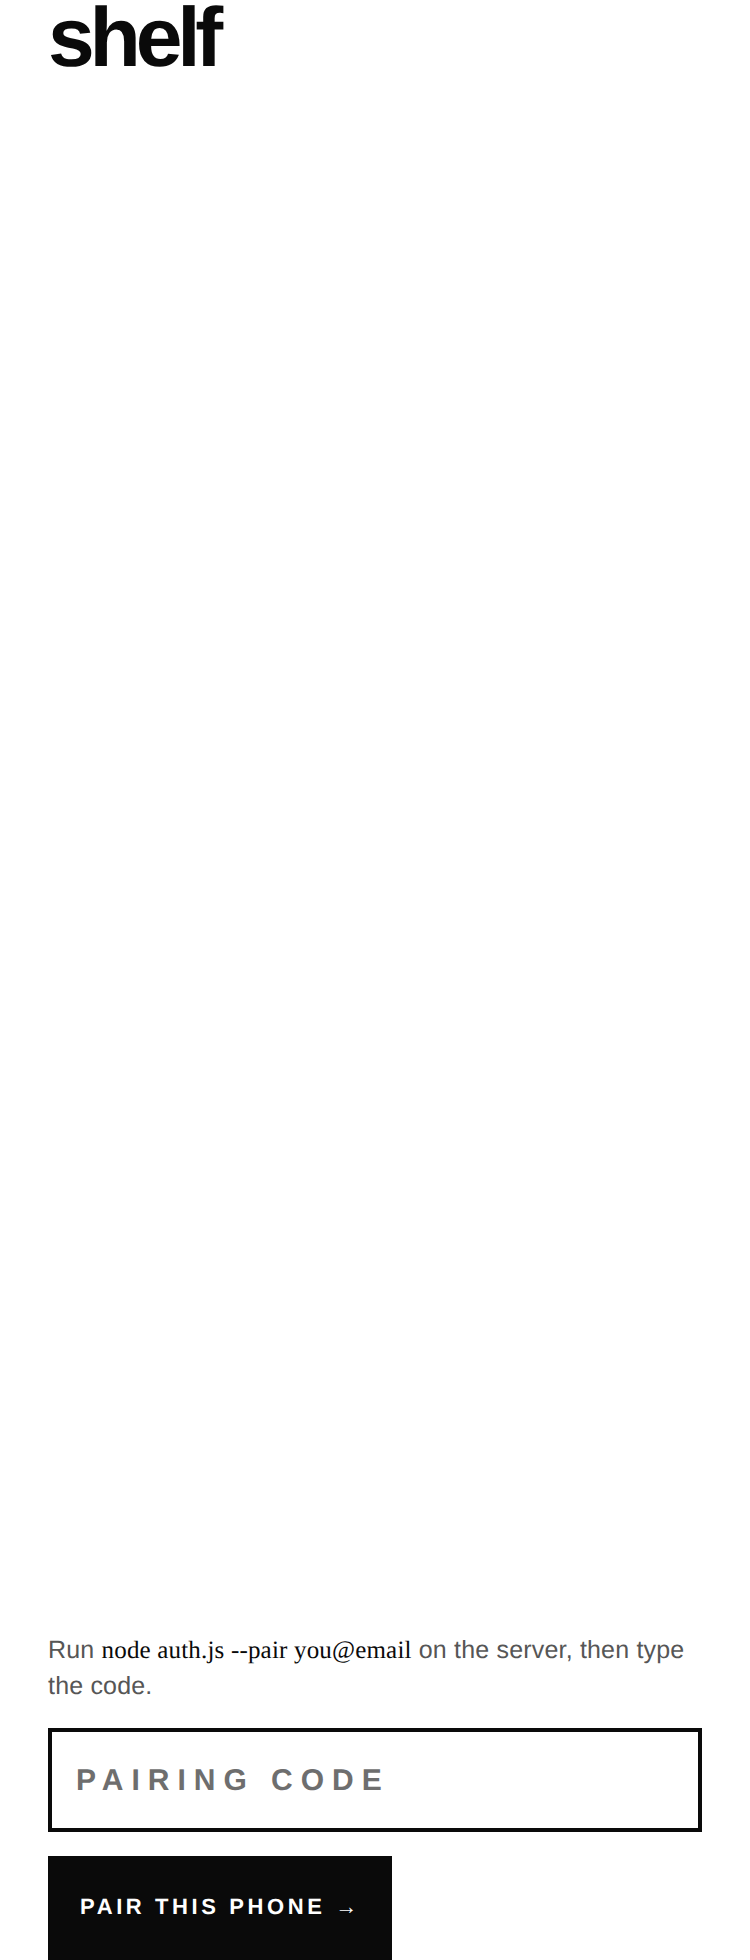
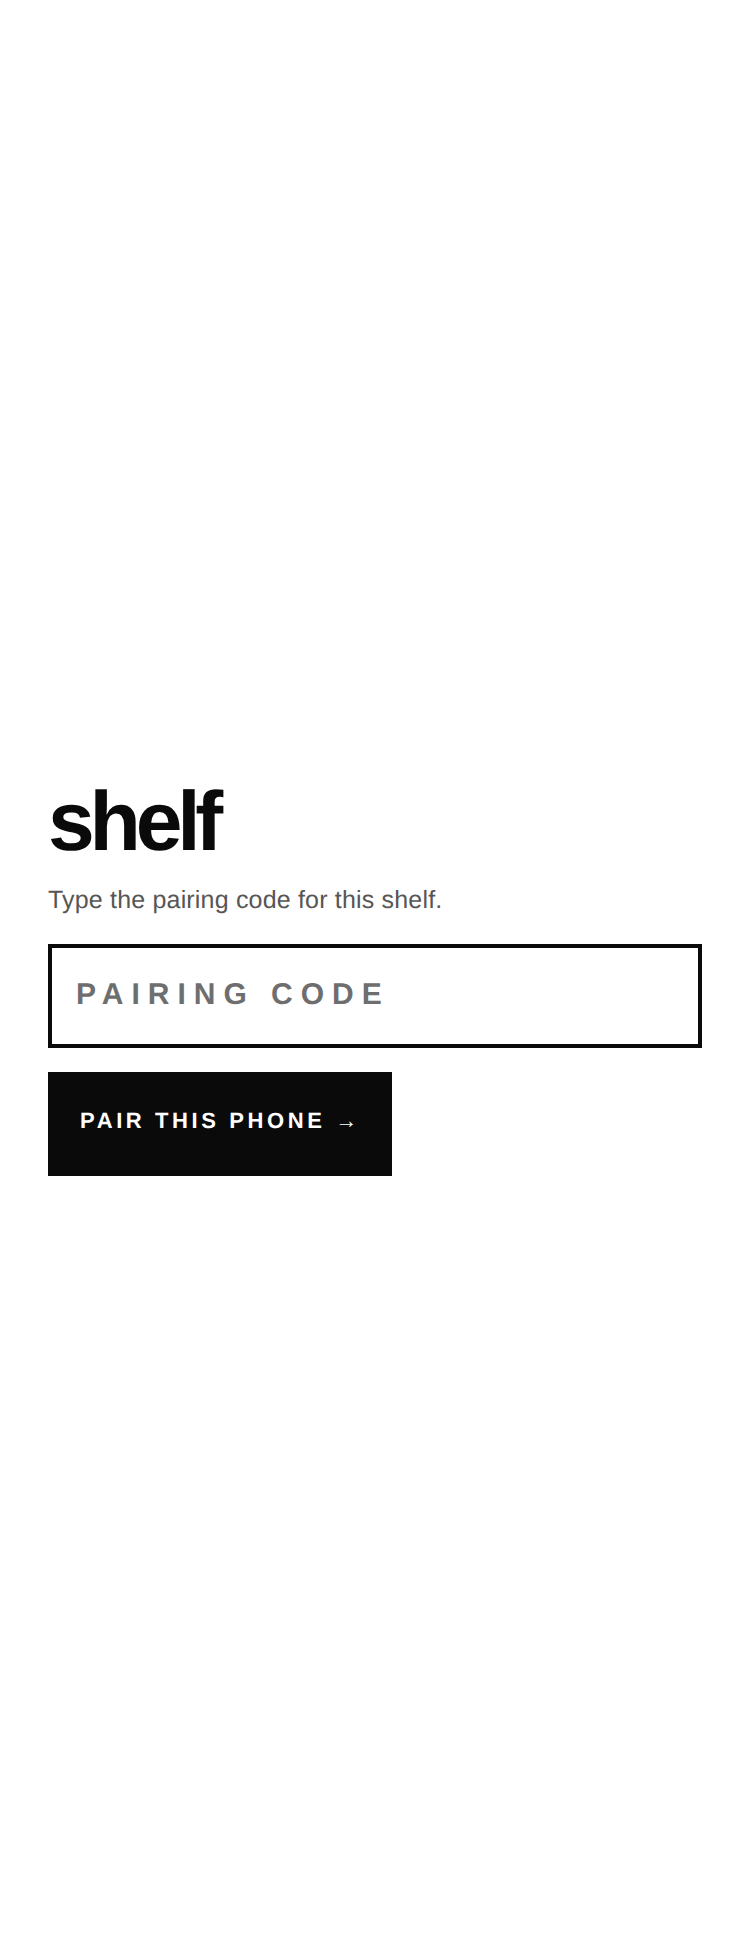
Nothing you type into may sit under the keyboard — and claim the shelf without a code
TWO THINGS, both about the one screen you cannot get past.

THE KEYBOARD. The pairing field shipped underneath it. Not cosmetic: it is the
first screen on first launch, so the app was unusable, and it is invisible to
every check in this project — react-native-web has no keyboard, so no
screenshot and no rule could ever have shown it. KeyboardSafe wraps the screens
that are not scroll views; scrollKeyboardProps insets the ones that are. Now a
gate rule (21 total) fails any file with a TextInput and no keyboard avoidance,
with a probe proving it fires.

THE CODE. A pairing code exists so a public URL is not a public shelf. But on a
brand-new deployment there is nobody to protect it from — the database has no
devices at all — and requiring one there means the first thing the app asks of
you is to go and run a curl. POST /api/pair/claim lets the FIRST device pair
with no code, and the window shuts permanently the instant it is used: every
call re-counts devices, so the second device gets the same 403 a stranger
would. /api/health reports `unclaimed` so the state is visible rather than
quiet. Verified: health says unclaimed, first claim succeeds, health flips,
second claim is refused, and a minted code still works for a real second device.

And a third thing the render harness caught while fixing the first: the pairing
screen reused `s.wordmark`, which carries flex:1 so it can push the count to
the right of the header ROW. In a column it ate 701 of 812 points and pinned
[…]

diff --git a/app/App.tsx b/app/App.tsx
@@ -26,7 +26,7 @@ import {
   ActivityIndicator, Image, Linking, ScrollView, StyleSheet, Text, TextInput, View,
 } from "react-native";
 import {
-  fetchInbox, fetchList, flushQueue, getProfile, listReceived, pair, updateItem,
+  claim, fetchInbox, fetchList, flushQueue, getProfile, listReceived, pair, serverState, updateItem,
   type Item, type ListName, type ShareKind, LISTS,
 } from "./src/api";
 import { Add } from "./src/Add";
@@ -37,6 +37,7 @@ import { ShareSheet } from "./src/ShareSheet";
 import { getToken, setToken, verifySharedAccess } from "./src/tokenStore";
 import { Press } from "./src/Press";
 import { Reveal } from "./src/Reveal";
+import { KeyboardSafe, scrollKeyboardProps } from "./src/KeyboardSafe";
 import {
   BOARD, COVER_KEYLINE, coverFor, placeholderOn, jacketType, lists, listOn, mainTitle, gridFor, rowsOf, emptyBoards, emptyPitch, EMPTY_BOARD_H, rowPitch,
   RULE, sp, t, TOUCH_MIN, useTheme, type Palette,
@@ -515,7 +516,7 @@ function Detail({ item, onClose, onAct, onShare, dark, s, c }: {
   const ghost = placeholderOn(list, dark ? D.dark : D.light);
   return (
     <View style={[s.detail, { backgroundColor: fill }]}>
-      <ScrollView contentContainerStyle={s.detailScroll} showsVerticalScrollIndicator={false}>
+      <ScrollView contentContainerStyle={s.detailScroll} showsVerticalScrollIndicator={false} {...scrollKeyboardProps}>
         <View>
           <View style={s.detailHead}>
             <Text style={[s.detailKicker, { color: on }]}>{lists[list].n} · {lists[list].label}</Text>
@@ -636,12 +637,24 @@ function Pairing({ onPaired }: { onPaired: () => void }) {
   const [code, setCode] = useState("");
   const [error, setError] = useState<string | null>(null);
   const [busy, setBusy] = useState(false);
+  // undefined = we have not asked the server yet. A spinner is the honest
+  // rendering of that; showing the code field first and swapping it out under
+  // somebody's fingers is not.
+  const [unclaimed, setUnclaimed] = useState<boolean | undefined>(undefined);
 
-  async function submit() {
+  useEffect(() => {
+    let live = true;
+    serverState()
+      .then((r) => live && setUnclaimed(!!r.unclaimed))
+      .catch(() => live && setUnclaimed(false));   // can't ask → assume claimed
+    return () => { live = false; };
+  }, []);
+
+  async function finish(get: () => Promise<string>) {
     setBusy(true);
     setError(null);
     try {
-      setToken(await pair(code.trim().toUpperCase(), "iPhone"));
+      setToken(await get());
       // Confirm the extension can actually read what we just wrote. Finding
       // this out here is the difference between a one-line fix and a week of
       // "why does sharing do nothing".
@@ -651,30 +664,65 @@ function Pairing({ onPaired }: { onPaired: () => void }) {
       onPaired();
     } catch (e) {
       setError((e as Error).message);
+      setUnclaimed(false);   // a failed claim usually means somebody got there first
     } finally {
       setBusy(false);
     }
   }
 
   return (
-    <View style={[s.screen, s.pairWrap]}>
-      <Text style={s.wordmark}>shelf</Text>
-      <Text style={s.pairHint}>Run <Text style={s.mono}>node auth.js --pair you@email</Text> on the server, then type the code.</Text>
-      <TextInput
-        value={code}
-        onChangeText={setCode}
-        autoCapitalize="characters"
-        autoCorrect={false}
-        placeholder="PAIRING CODE"
-        placeholderTextColor={c.inkFaint}
-        style={s.input}
-        onSubmitEditing={submit}
-      />
-      <Press onPress={submit} disabled={busy || code.length < 4} style={s.pairBtn} size={TOUCH_MIN} label="Pair this phone">
-        {busy ? <ActivityIndicator color={c.onList} /> : <Text style={s.pairBtnLabel}>Pair this phone →</Text>}
-      </Press>
-      {error ? <Text style={s.errorNote}>{error}</Text> : null}
-    </View>
+    // The field you type the code into is the whole screen. It shipped under
+    // the keyboard once; that is the entire reason KeyboardSafe exists.
+    // ONE flex container, not two. Nesting a flex:1 View inside KeyboardSafe's
+    // own flex:1 broke the centring and dropped everything to the bottom of
+    // the screen — the render harness caught it immediately.
+    <KeyboardSafe style={[s.screen, s.pairWrap] as never}>
+        {/* NOT s.wordmark: that carries flex:1 so it pushes the count to the
+            right of the header ROW. In a column it ate 701 of 812 points and
+            pinned everything else to the bottom of the screen. A style is only
+            reusable in the axis it was written for. */}
+        <Text style={s.pairMark}>shelf</Text>
+
+        {unclaimed === undefined ? (
+          <ActivityIndicator color={c.inkFaint} />
+        ) : unclaimed ? (
+          <>
+            {/* Nobody has ever paired with this server, so there is nobody to
+                protect it from yet. One tap, no code, and the window shuts
+                permanently the moment it is used. */}
+            <Text style={s.pairHint}>
+              This shelf is new and nobody has claimed it. Take it — after this, any
+              other device needs a code from you.
+            </Text>
+            <Press onPress={() => finish(() => claim("iPhone"))} disabled={busy} style={s.pairBtn} size={TOUCH_MIN} label="Claim this shelf">
+              {busy ? <ActivityIndicator color={c.bg} /> : <Text style={s.pairBtnLabel}>This is my shelf →</Text>}
+            </Press>
+          </>
+        ) : (
+          <>
+            <Text style={s.pairHint}>Type the pairing code for this shelf.</Text>
+            <TextInput
+              value={code}
+              onChangeText={setCode}
+              autoCapitalize="characters"
+              autoCorrect={false}
+              placeholder="PAIRING CODE"
+              placeholderTextColor={c.inkFaint}
+              style={s.input}
+              onSubmitEditing={() => finish(() => pair(code.trim().toUpperCase(), "iPhone"))}
+            />
+            <Press
+              onPress={() => finish(() => pair(code.trim().toUpperCase(), "iPhone"))}
+              disabled={busy || code.length < 4}
+              style={s.pairBtn} size={TOUCH_MIN} label="Pair this phone"
+            >
+              {busy ? <ActivityIndicator color={c.bg} /> : <Text style={s.pairBtnLabel}>Pair this phone →</Text>}
+            </Press>
+          </>
+        )}
+
+        {error ? <Text style={s.errorNote}>{error}</Text> : null}
+    </KeyboardSafe>
   );
 }
 
@@ -789,6 +837,7 @@ const styles = (c: Palette) => StyleSheet.create({
   busy: { marginTop: sp.lg },
 
   pairWrap: { justifyContent: "center", paddingHorizontal: sp.xl, gap: sp.md },
+  pairMark: { ...t.wordmark, color: c.ink },
   pairHint: { ...t.meta, color: c.inkSoft },
   mono: { ...t.code, color: c.ink },
   input: {

diff --git a/api/serve.js b/api/serve.js
@@ -119,6 +119,15 @@ async function handle(req, res, url) {
       // 404s. An empty string means neither is set.
       web_base: WEB_BASE,
     };
+    if (dbReady()) {
+      try {
+        const d = await query("select count(*)::int as n from devices");
+        // Visible, not quiet: an unclaimed shelf can be claimed by the first
+        // person to open the app, and you should be able to see that it still
+        // can be.
+        out.unclaimed = d.rows[0].n === 0;
+      } catch (_) { /* the queue block below reports db trouble */ }
+    }
     out.providers = {
       claude: !!process.env.ANTHROPIC_API_KEY,
       tmdb: !!process.env.TMDB_API_KEY,
@@ -167,6 +176,38 @@ async function handle(req, res, url) {
     }
     const { code } = await mintPairCode(email);
     return json(res, 200, { ok: true, code, expires_in_minutes: 30, note: "single use" });
+  }
+
+  // FIRST RUN CLAIMS THE APP.
+  //
+  // A pairing code exists so that a public URL is not a public shelf. But on a
+  // brand-new deployment there is nobody to protect it from yet — the database
+  // has no devices at all — and requiring a code there means the first thing
+  // the app ever asks you to do is go and run a curl. So: while no device has
+  // ever paired, one may pair with no code.
+  //
+  // The window closes permanently the instant it is used. `devices` is checked
+  // on every call, so the second device gets the same 403 a stranger would,
+  // and reopening it takes deliberate action against the database. The whole
+  // exposure is the minutes between deploying and opening the app, and only
+  // for somebody who already knows the URL.
+  //
+  // /api/health reports `unclaimed` so this is a visible state, not a quiet one.
+  if (key === "POST /api/pair/claim") {
+    if (!dbReady()) return json(res, 503, { ok: false, error: "no database" });
+    const taken = await query("select count(*)::int as n from devices");
+    if (taken.rows[0].n > 0) {
+      return json(res, 403, {
+        ok: false,
+        error: "this shelf has already been claimed — ask its owner for a pairing code",
+      });
+    }
+    const body = await readBody(req);
+    const email = String(body?.email || "").trim() || "owner@shelf.local";
+    const { code } = await mintPairCode(email);
+    const got = await redeemPairCode(code, body?.device || "iPhone");
+    console.log(`[shelf] first device claimed this shelf as ${email}`);
+    return json(res, 200, { ok: true, token: got.token, claimed_as: email });
   }
 
   if (key === "POST /api/pair/redeem") {

diff --git a/app/src/KeyboardSafe.tsx b/app/src/KeyboardSafe.tsx
@@ -1,0 +1,46 @@
+// KeyboardSafe.tsx — nothing you type into may sit under the keyboard.
+//
+// This exists because the PAIRING SCREEN shipped with the code field hidden
+// behind the keyboard. Not a cosmetic problem: it is the one screen you cannot
+// get past, on first launch, so the app was unusable and the failure was
+// invisible in every screenshot — react-native-web has no keyboard, so the
+// render harness could never have caught it.
+//
+// Two mechanisms, because the layouts differ:
+//
+//   <KeyboardSafe>      wraps a screen that is NOT a scroll view (the pairing
+//                       screen, the share panel). Shrinks the frame so the
+//                       content is laid out in what is left.
+//
+//   scrollKeyboardProps spread onto a ScrollView that contains inputs. iOS
+//                       insets the scroll content by the keyboard itself,
+//                       which is better than shrinking: the view keeps its
+//                       size and just scrolls further.
+//
+// `keyboardShouldPersistTaps: "handled"` is in there because without it the
+// first tap after typing is swallowed dismissing the keyboard — so a person
+// taps Save, nothing happens, and they tap it again.
+import React from "react";
+import { KeyboardAvoidingView, Platform, type ViewStyle } from "react-native";
+
+export function KeyboardSafe({ children, style }: { children: React.ReactNode; style?: ViewStyle }) {
+  return (
+    <KeyboardAvoidingView
+      style={[{ flex: 1 }, style]}
+      // `padding` is the correct behaviour on iOS; Android resizes the window
+      // itself and `height` double-counts unless you say so.
+      behavior={Platform.OS === "ios" ? "padding" : "height"}
+      keyboardVerticalOffset={0}
+    >
+      {children}
+    </KeyboardAvoidingView>
+  );
+}
+
+/** Spread onto any ScrollView that contains a TextInput. */
+export const scrollKeyboardProps = {
+  keyboardShouldPersistTaps: "handled" as const,
+  // iOS only, and a no-op elsewhere: insets the content by the keyboard's
+  // height rather than resizing the view.
+  automaticallyAdjustKeyboardInsets: true,
+};

diff --git a/app/src/Add.tsx b/app/src/Add.tsx
@@ -14,6 +14,7 @@ import { ActivityIndicator, Image, ScrollView, StyleSheet, Text, TextInput, View
 import { addItem, search, type Item, type ListName, type SearchHit } from "./api";
 import { Press } from "./Press";
 import { Reveal } from "./Reveal";
+import { KeyboardSafe, scrollKeyboardProps } from "./KeyboardSafe";
 import { lists, listOn, RULE, sp, t, TOUCH_MIN, useTheme, type Palette } from "./theme";
 
 // Long enough that a normal typing burst is one request, short enough that it
@@ -80,7 +81,7 @@ export function Add({ onClose, onAdded }: { onClose: () => void; onAdded: (item:
   }
 
   return (
-    <View style={s.screen}>
+    <KeyboardSafe style={s.screen}>
       <View style={[s.head, s.inset]}>
         <Text style={s.wordmark}>Add</Text>
         <Press onPress={onClose} style={s.close} size={TOUCH_MIN} label="Close">
@@ -106,7 +107,7 @@ export function Add({ onClose, onAdded }: { onClose: () => void; onAdded: (item:
         {busy ? <ActivityIndicator color={c.inkFaint} style={s.busy} /> : null}
       </View>
 
-      <ScrollView contentContainerStyle={s.scroll} keyboardShouldPersistTaps="handled" showsVerticalScrollIndicator={false}>
+      <ScrollView contentContainerStyle={s.scroll} showsVerticalScrollIndicator={false} {...scrollKeyboardProps}>
         {error ? <Text style={[s.error, s.inset]}>{error}</Text> : null}
 
         {hits.map((hit, i) => (
@@ -149,7 +150,7 @@ export function Add({ onClose, onAdded }: { onClose: () => void; onAdded: (item:
           </View>
         ) : null}
       </ScrollView>
-    </View>
+    </KeyboardSafe>
   );
 }
 

diff --git a/app/src/ShareSheet.tsx b/app/src/ShareSheet.tsx
@@ -14,6 +14,7 @@ import { ActivityIndicator, Share, StyleSheet, Text, TextInput, View } from "rea
 import { getProfile, makeShare, revokeShare, sendTo, shareUrl, type ShareKind } from "./api";
 import { ExLibris } from "./ExLibris";
 import { Press } from "./Press";
+import { KeyboardSafe } from "./KeyboardSafe";
 import * as D from "./design.js";
 import { labelOf, listOn, placeholderOn, RULE, sp, t, TOUCH_MIN, useTheme, type Palette } from "./theme";
 
@@ -95,7 +96,7 @@ export function ShareSheet({ kind, target, list, title, onClose }: {
   }
 
   return (
-    <View style={[s.panel, { backgroundColor: fill }]}>
+    <KeyboardSafe style={[s.panel, { backgroundColor: fill }] as never}>
       <View style={s.head}>
         <Text style={[s.kicker, { color: on }]}>
           {kind === "profile" ? "Share your shelves" : kind === "shelf" ? `Share the ${labelOf(list)} shelf` : "Share this"}
@@ -170,7 +171,7 @@ export function ShareSheet({ kind, target, list, title, onClose }: {
         {seed ? <ExLibris seed={seed} size={40} /> : null}
         <Text style={[s.kicker, { color: on }]}>{handle ? `Ex libris @${handle}` : "Ex libris"}</Text>
       </View>
-    </View>
+    </KeyboardSafe>
   );
 }
 

diff --git a/app/src/api.ts b/app/src/api.ts
@@ -64,6 +64,27 @@ export const pair = async (code: string, device: string) => {
   return body.token;
 };
 
+/**
+ * Claim a brand-new shelf with no code at all. Succeeds only while no device
+ * has ever paired; after that it 403s like it would for a stranger.
+ */
+export const claim = async (device: string) => {
+  const res = await fetch(`${API_BASE}/api/pair/claim`, {
+    method: "POST",
+    headers: { "Content-Type": "application/json" },
+    body: JSON.stringify({ device }),
+  });
+  const body = (await res.json()) as { ok: boolean; token?: string; error?: string };
+  if (!body.ok || !body.token) throw new Error(body.error ?? "could not claim");
+  return body.token;
+};
+
+/** Is this server still unclaimed? Decides which pairing screen you get. */
+export const serverState = async () => {
+  const res = await fetch(`${API_BASE}/api/health`);
+  return (await res.json()) as { unclaimed?: boolean };
+};
+
 export const fetchList = (list: ListName) =>
   req<{ items: Item[] }>(`/api/items?list=${list}`).then((r) => r.items);
 

diff --git a/app/src/Profile.tsx b/app/src/Profile.tsx
@@ -19,6 +19,7 @@ import { handleProblem, normHandle } from "./exlibris.js";
 import { ExLibris } from "./ExLibris";
 import { Press } from "./Press";
 import { Reveal } from "./Reveal";
+import { scrollKeyboardProps } from "./KeyboardSafe";
 import {
   BOARD, labelOf, lists, listOn, LIST_ORDER, RULE, sp, t, TOUCH_MIN, useTheme, type Palette,
 } from "./theme";
@@ -115,7 +116,7 @@ export function Profile({ onClose, onShare }: {
   return (
     <View style={s.screen}>
       <Header onClose={onClose} s={s} title="Your card" />
-      <ScrollView contentContainerStyle={s.scroll} showsVerticalScrollIndicator={false}>
+      <ScrollView contentContainerStyle={s.scroll} showsVerticalScrollIndicator={false} {...scrollKeyboardProps}>
         <View style={s.rule} />
 
         <View style={[s.plateRow, s.inset]}>

diff --git a/app/preview/stubs.js b/app/preview/stubs.js
@@ -47,6 +47,10 @@ export const ingestImage = async () => ({ id: "1" });
 export const queueShare = async () => {};
 export const flushQueue = async () => 0;
 export const pair = async () => "shelf_preview";
+// ?unclaimed=1 renders the first-run screen, which is otherwise only reachable
+// against a server nobody has ever paired with.
+export const serverState = async () => ({ unclaimed: new URLSearchParams(location.search).get("unclaimed") === "1" });
+export const claim = async () => "shelf_preview";
 export const pendingShareCount = async () => 0;
 export const API_BASE = "";
 

diff --git a/DESIGN.md b/DESIGN.md
@@ -115,6 +115,18 @@ That bar is only meaningful if it is falsifiable, so it is:
   field, and the mix is solved rather than picked: 0.42 was the first guess and
   the gate rejected it at 2.3:1 on red and green. 3:1 is the bar, not 4.5 —
   placeholder text is not essential content — but it is a bar.
+- **NOTHING YOU TYPE INTO MAY SIT UNDER THE KEYBOARD.** The pairing screen
+  shipped with the code field hidden behind it — the one screen you cannot get
+  past, on first launch, so the app was simply unusable. And it is invisible to
+  every automated check here: react-native-web has no keyboard, so no
+  screenshot and no rule could ever have shown it. Every file with a
+  `TextInput` now wraps its screen in `KeyboardSafe` or spreads
+  `scrollKeyboardProps` onto the ScrollView holding it, and the gate fails the
+  build otherwise.
+- **A style is only reusable in the axis it was written for.** The wordmark
+  carries `flex: 1` so it pushes the count to the right of a header ROW. Reused
+  in a column it ate 701 of 812 points and pinned everything else to the bottom
+  of the screen. Reaching for an existing style name is not free.
 - **A count of zero is not a badge.** "Sent to you" with nothing behind it is a
   dot that teaches people to ignore dots.
 - **Dark mode is not a v2 thing.** Styles are built from the live palette inside
